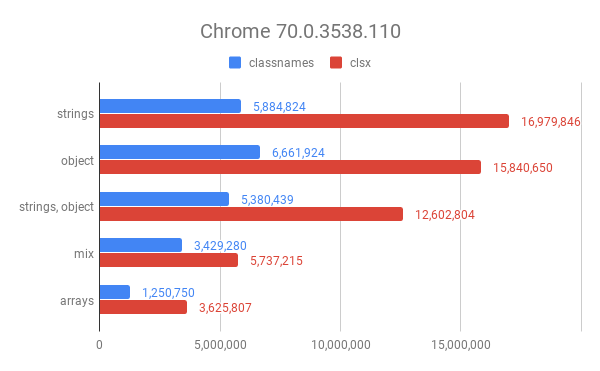
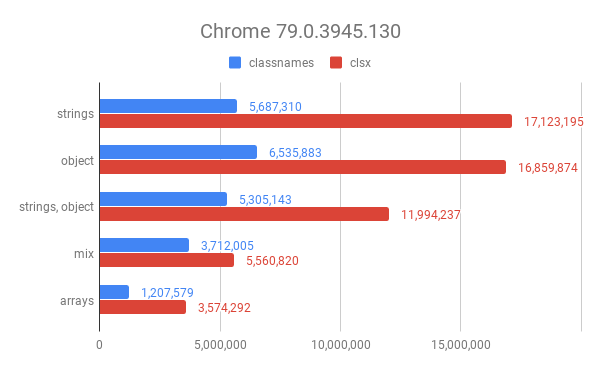
chore: update bench results

diff --git a/bench/readme.md b/bench/readme.md
@@ -10,39 +10,39 @@ These are the results while running this directory's benchmark suite in Node v10
 
 ```
 # Strings
-  classcat ≠   x  8,590,994 ops/sec ±0.27% (94 runs sampled)
-  classnames   x  3,987,311 ops/sec ±1.68% (94 runs sampled)
-  clsx         x 11,066,632 ops/sec ±0.23% (96 runs sampled)
+  classcat ≠   x  8,701,496 ops/sec ±0.34% (95 runs sampled)
+  classnames   x  3,938,281 ops/sec ±1.60% (92 runs sampled)
+  clsx         x 11,253,372 ops/sec ±0.35% (96 runs sampled)
 
 # Objects
-  classcat ≠   x 8,566,516 ops/sec ±0.42% (97 runs sampled)
-  classnames   x 3,697,182 ops/sec ±1.31% (98 runs sampled)
-  clsx         x 7,147,168 ops/sec ±0.30% (95 runs sampled)
+  classcat ≠   x 8,594,500 ops/sec ±0.26% (98 runs sampled)
+  classnames   x 3,741,576 ops/sec ±0.21% (94 runs sampled)
+  clsx         x 7,288,178 ops/sec ±0.31% (96 runs sampled)
 
 # Arrays
-  classcat ≠   x 7,538,840 ops/sec ±0.56% (95 runs sampled)
-  classnames   x 1,697,776 ops/sec ±1.41% (97 runs sampled)
-  clsx         x 7,922,225 ops/sec ±0.18% (95 runs sampled)
+  classcat ≠   x 7,461,741 ops/sec ±1.04% (88 runs sampled)
+  classnames   x 1,649,404 ops/sec ±1.79% (93 runs sampled)
+  clsx         x 8,340,174 ops/sec ±0.53% (96 runs sampled)
 
 # Nested Arrays
-  classcat ≠   x 6,462,158 ops/sec ±0.22% (97 runs sampled)
-  classnames   x 1,201,570 ops/sec ±0.22% (96 runs sampled)
-  clsx         x 6,132,222 ops/sec ±0.49% (95 runs sampled)
+  classcat ≠   x 6,347,127 ops/sec ±0.30% (93 runs sampled)
+  classnames   x 1,154,165 ops/sec ±1.63% (93 runs sampled)
+  clsx         x 6,284,485 ops/sec ±0.58% (90 runs sampled)
 
 # Nested Arrays w/ Objects
-  classcat ≠   x 6,277,187 ops/sec ±0.62% (93 runs sampled)
-  classnames   x 1,613,328 ops/sec ±1.69% (96 runs sampled)
-  clsx         x 5,156,844 ops/sec ±0.22% (95 runs sampled)
+  classcat ≠   x 6,422,622 ops/sec ±0.36% (95 runs sampled)
+  classnames   x 1,614,032 ops/sec ±0.44% (96 runs sampled)
+  clsx         x 6,345,248 ops/sec ±0.21% (95 runs sampled)
 
 # Mixed
-  classcat ≠   x 7,073,536 ops/sec ±0.26% (95 runs sampled)
-  classnames   x 2,149,952 ops/sec ±1.24% (95 runs sampled)
-  clsx         x 5,577,715 ops/sec ±0.20% (93 runs sampled)
+  classcat ≠   x 7,071,223 ops/sec ±0.36% (95 runs sampled)
+  classnames   x 2,093,250 ops/sec ±1.38% (93 runs sampled)
+  clsx         x 6,557,515 ops/sec ±0.73% (91 runs sampled)
 
 # Mixed (Bad Data)
-  classcat ≠   x 1,770,852 ops/sec ±0.14% (97 runs sampled)
-  classnames   x 1,148,353 ops/sec ±0.54% (97 runs sampled)
-  clsx         x 1,887,010 ops/sec ±0.14% (96 runs sampled)
+  classcat ≠   x 1,761,143 ops/sec ±0.21% (96 runs sampled)
+  classnames   x 1,132,549 ops/sec ±0.91% (95 runs sampled)
+  clsx         x 2,018,654 ops/sec ±0.15% (98 runs sampled)
 ```
 
 ## Browsers
